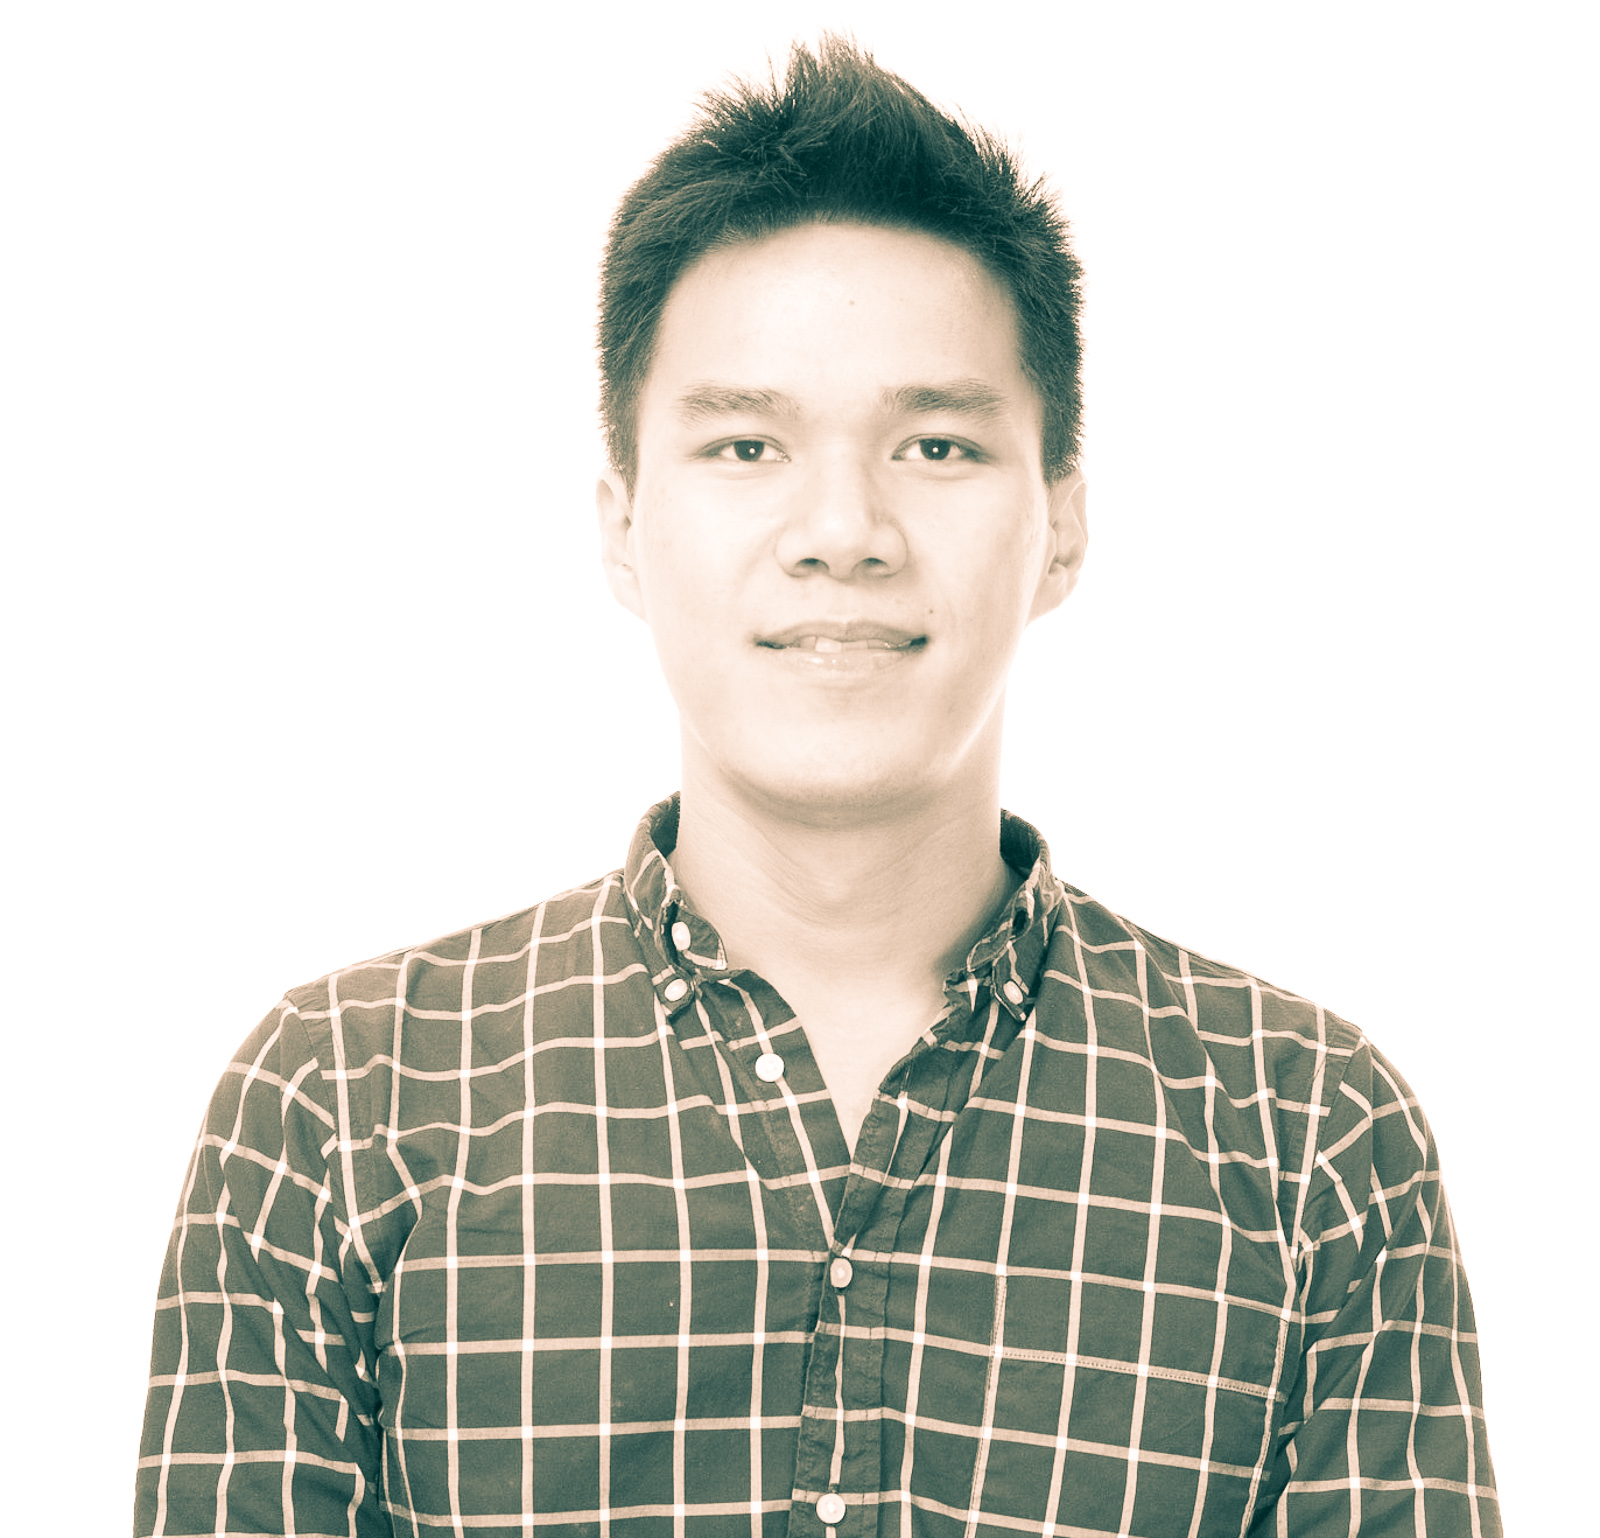
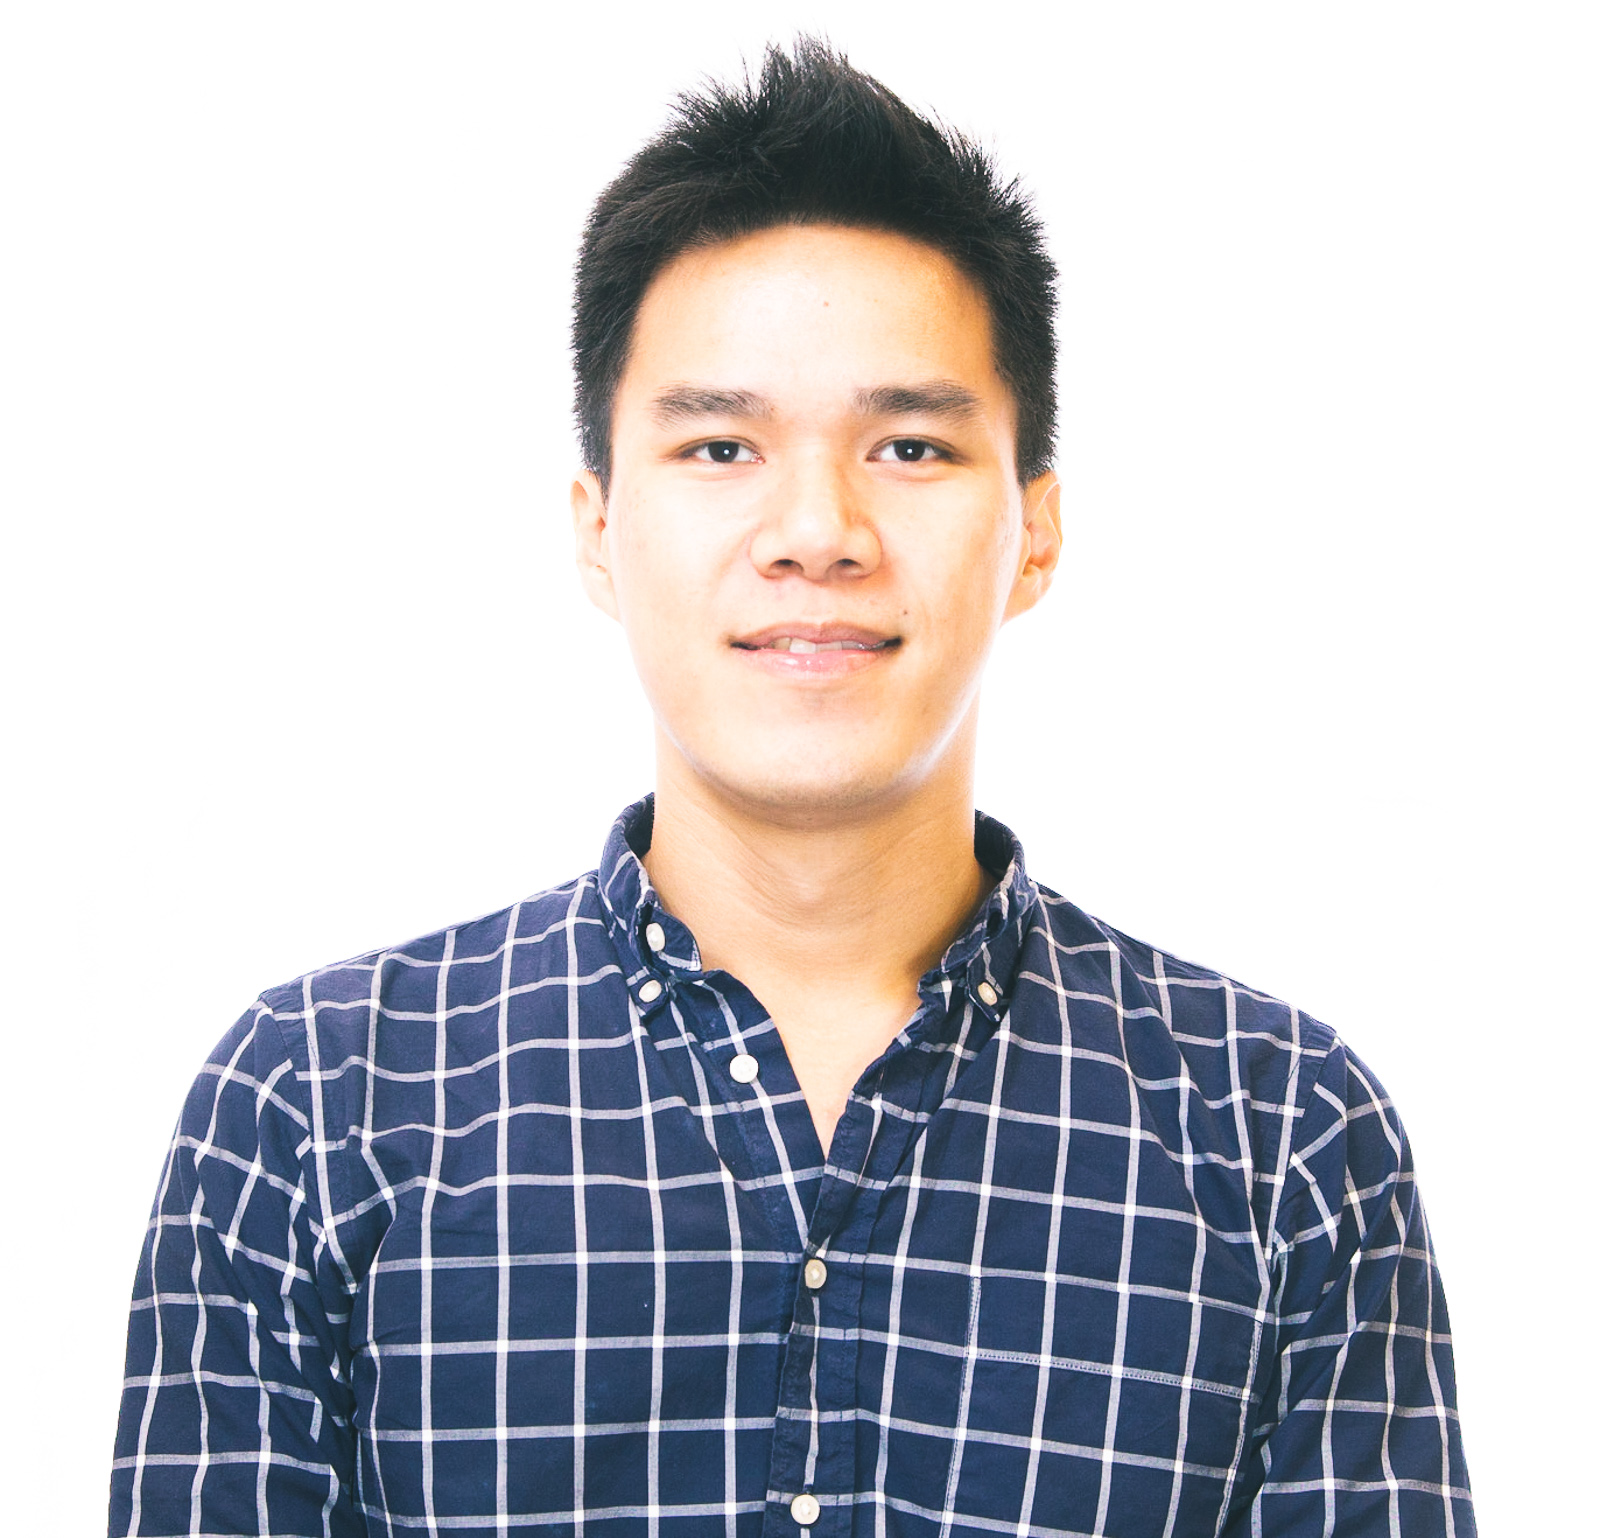
Styling and new photo
Styling and new photo

diff --git a/index.html b/index.html
@@ -66,7 +66,9 @@
   <div class="container" id="work">
     <div class="row">
       <div class="col-lg-6" style="padding-top: 5vh;">
-        <h1>Work</h1>
+
+        <h2>Work</h2>
+          <hr>
         <p>I have a background in the creative field and spent several years as a web and print designer before drinking the programming kool-aid. I also like photography, rock-climbing, and urban exploring #basicmillennial</p>
       </div>
       <div class="col-lg-6 img-fluid my-5">
@@ -106,22 +108,28 @@
           <img class="img-fluid" src="/assets/img/button_tic-tac-toe.jpg" alt="">
         </a>
       </div> -->
-      <div class="col-lg-4 col-sm-4 portfolio-tile" style="padding: 0;   background: url('/assets/img/button_tic-tac-toe.jpg') no-repeat; background-size: cover;">
+      <div class="col-lg-3 col-md-6 portfolio-tile" style="padding: 0;   background: url('/assets/img/button_tic-tac-toe.jpg') no-repeat; background-size: cover;">
         <div class="portfolio-button-caption">
           <h3><a href="https://ayoungdrew.github.io/tic-tac-toe-project/" target="_blank">Tic-Tac-Toe</a></h3>
           <p><a href="https://ayoungdrew.github.io/tic-tac-toe-project/" target="_blank">View App</a> | <a href="https://github.com/ayoungdrew/tic-tac-toe-project" target="_blank">Github</a></p>
         </div>
       </div>
-      <div class="col-lg-4 col-sm-4 portfolio-tile" style="padding: 0;   background: url('/assets/img/life-soundtrack.jpg') no-repeat; background-size: cover;">
+      <div class="col-lg-3 col-md-6 portfolio-tile" style="padding: 0;   background: url('/assets/img/life-soundtrack.jpg') no-repeat; background-size: cover;">
         <div class="portfolio-button-caption">
           <h3><a href="https://ayoungdrew.github.io/life-soundtrack-front/" target="_blank">Life Soundtrack</a></h3>
           <p><a href="https://ayoungdrew.github.io/life-soundtrack-front/" target="_blank">View App</a> | <a href="https://github.com/ayoungdrew/life-soundtrack-front" target="_blank">Github</a></p>
         </div>
       </div>
-      <div class="col-lg-4 col-sm-4 portfolio-tile" style="padding: 0;   background: url('https://res.cloudinary.com/duqjlnkij/image/upload/v1522289123/bg-raindrop-a.jpg') no-repeat; background-size: cover;">
+      <div class="col-lg-3 col-md-6 portfolio-tile" style="padding: 0;   background: url('https://res.cloudinary.com/duqjlnkij/image/upload/v1522289123/bg-raindrop-a.jpg') no-repeat; background-size: cover;">
         <div class="portfolio-button-caption">
           <h3><a href="https://raindropandwee.github.io/raindrop-client/" target="_blank">Raindrop</a></h3>
           <p><a href="https://raindropandwee.github.io/raindrop-client/" target="_blank">View App</a> | <a href="https://github.com/RaindropAndWee/raindrop-client" target="_blank">Github</a></p>
+        </div>
+      </div>
+      <div class="col-lg-3 col-md-6 portfolio-tile" style="padding: 0;   background: url('./assets/img/wait-but-why-screenshot_B.jpg') no-repeat; background-size: cover;">
+        <div class="portfolio-button-caption">
+          <h3><a href="https://ayoungdrew.github.io/wait-but-why-client/" target="_blank">Wait But Why</a></h3>
+          <p><a href="https://ayoungdrew.github.io/wait-but-why-client/" target="_blank">View App</a> | <a href="https://github.com/ayoungdrew/wait-but-why-client" target="_blank">Github</a></p>
         </div>
       </div>
     </div>
@@ -140,9 +148,10 @@
     </div>
   </div> -->
   <div class="container">
-    <div class="row">
-      <div id="about" class="col-lg-6" style="padding-top: 5vh;">
-        <h1>All you need to know about me</h1>
+    <div class="row flexbox-container">
+      <div id="about" class="col-lg-6" style="padding-top: 2vh; padding-bottom: 2vh;">
+        <h2>All you'll need to know about me</h2>
+          <hr>
         <p>I have a background in the creative field and spent several years as a web and print designer before drinking the programming kool-aid. I also like photography, rock-climbing, and urban exploring #basicmillennial</p>
       </div>
       <div class="col-lg-6 img-fluid">

diff --git a/main.css b/main.css
@@ -51,6 +51,34 @@ h1 h2 h3 {
   max-width: 1300px;
 }
 
+.flexbox-container {
+    display: flex;
+    align-items: center;
+    min-height: 200px;
+    height: 100%;
+  }
+
+  .flex-item {
+    display: flex;
+font-size: 16px;
+justify-content: center;
+align-items: center;
+width: 100%;
+height: 100%;
+line-height: 1.9;
+padding-bottom: 25px;
+  }
+
+hr {
+  border-width: 2px;
+  border-top-color: #444c54;
+  margin-top: 3vh;
+  margin-bottom: 1vh;
+  width: 6vh;
+  text-align: left;
+  display: inline-block;
+}
+
 .portfolio-tile {
   background-size: cover;
   height: 40vh;
